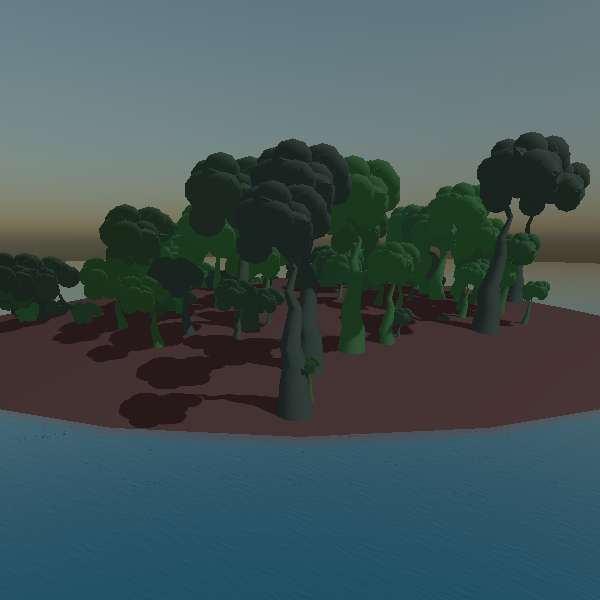
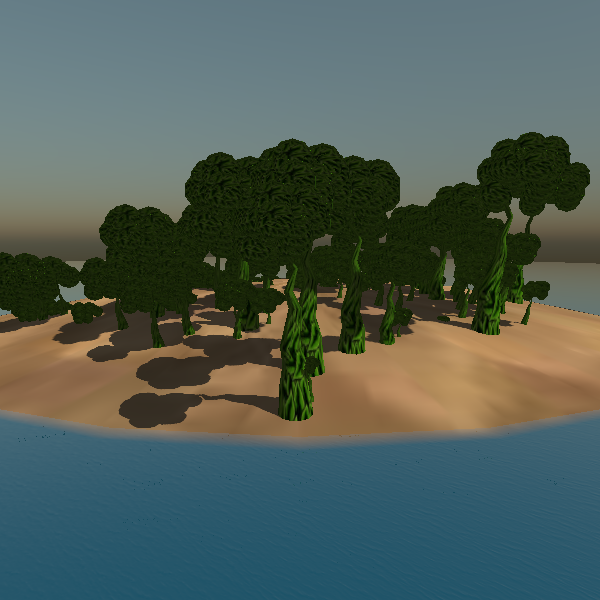
textures and adjustments

Changed region(s): [[0.0, 0.21, 1.0, 0.75]]

diff --git a/guest/rust/examples/advanced/forest/src/server.rs b/guest/rust/examples/advanced/forest/src/server.rs
@@ -46,7 +46,10 @@ pub fn main() {
         .with(sphere_sectors(), 24)
         .with(sphere_stacks(), 24)
         .with(translation(), vec3(80., 80., -970.))
-        .with(color(), vec4(0.4, 0.2, 0.2, 1.))
+        .with(
+            pbr_material_from_url(),
+            asset::url("assets/pipeline.json/0/mat.json").unwrap(),
+        )
         .spawn();
 
     // ocean
@@ -62,7 +65,7 @@ pub fn main() {
         .with_merge(make_transformable())
         .with_default(sun())
         .with(rotation(), Quat::from_rotation_y(-45_f32.to_radians()))
-        .with(light_diffuse(), Vec3::ONE)
+        .with(light_diffuse(), Vec3::ONE * 5.0)
         .with(fog_density(), 0.)
         .with_default(main_scene())
         .spawn();
@@ -96,13 +99,8 @@ pub fn main() {
                 ),
             )
             .with(
-                color(),
-                vec4(
-                    0.2,
-                    gen_rn(seed + i * i, 0.3, 0.9),
-                    gen_rn(seed + i * i * i, 0.2, 0.3),
-                    1.0,
-                ),
+                pbr_material_from_url(),
+                asset::url("assets/pipeline.json/1/mat.json").unwrap(),
             )
             .spawn();
     }

diff --git a/crates/std/src/uncategorized/asset_url.rs b/crates/std/src/uncategorized/asset_url.rs
@@ -436,11 +436,20 @@ impl AssetUrl {
             AssetUrl::Absolute(url) => Ok(Self::Absolute(url.join(path)?)),
             AssetUrl::Relative(p) => Ok(Self::Relative(
                 // The Url::join method has some intricacies so we want these to behave the same
-                Url::parse(&format!("http://localhost/{}", p.as_str()))
+                if cfg!(target_os = "windows") {
+                    Url::parse(&format!("http://localhost/{}", p.as_str().replace("/","\\")))
                     .unwrap()
                     .join(path.as_ref())?
                     .path()[1..]
-                    .into(),
+                    .into()
+                } else {
+                    Url::parse(&format!("http://localhost/{}", p.as_str()))
+                    .unwrap()
+                    .join(path.as_ref())?
+                    .path()[1..]
+                    .into()
+                }
+                ,
             )),
         }
     }
